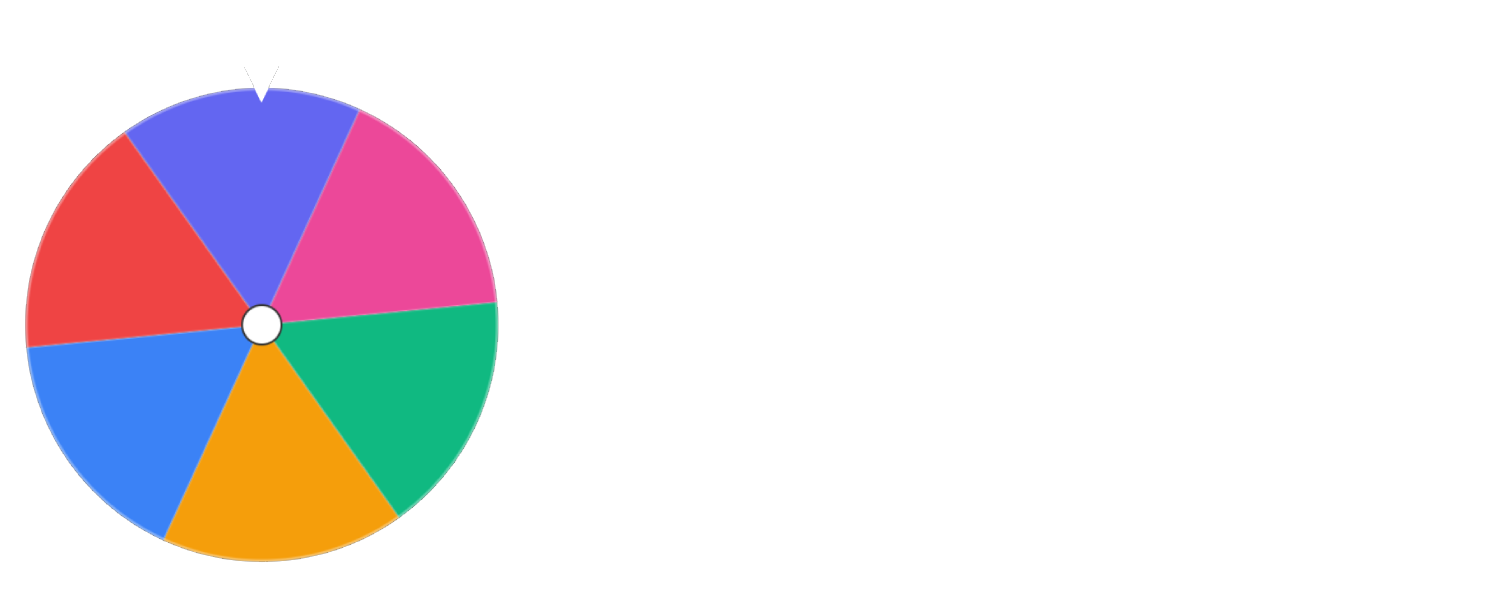
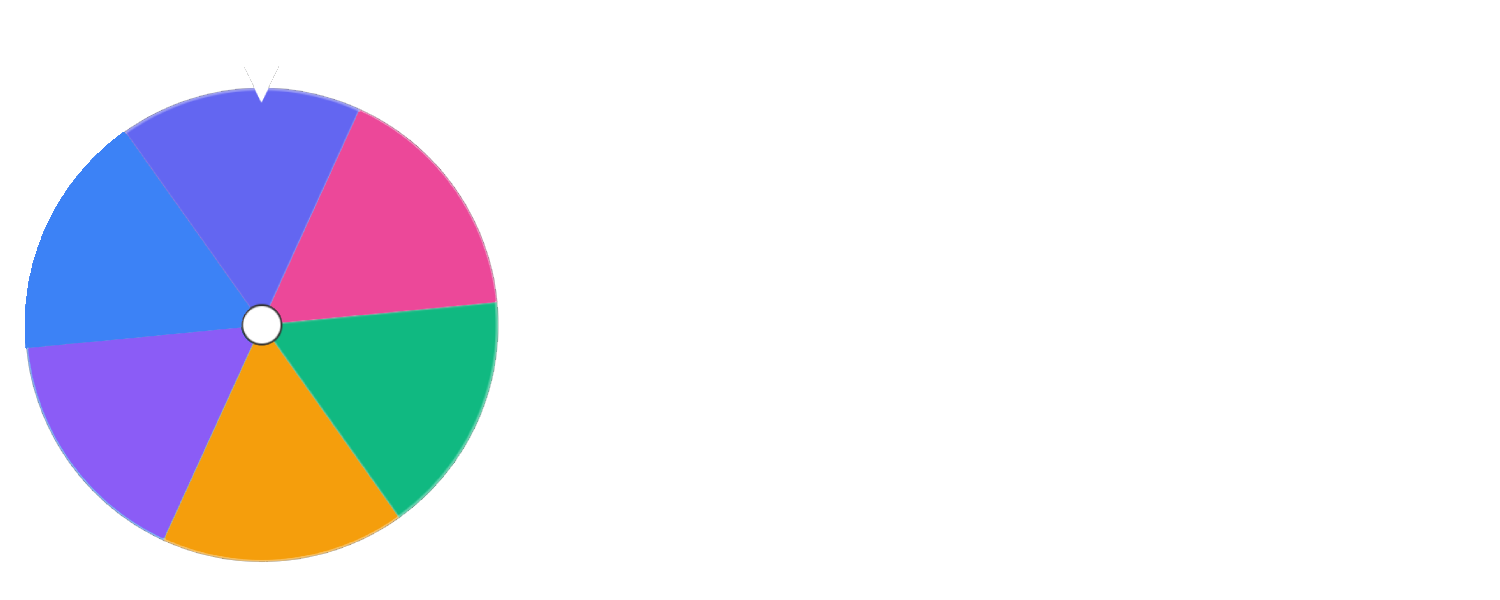
Added another tool

Changed region(s): [[0.0, 0.21, 0.184, 0.9]]

diff --git a/tools/index.html b/tools/index.html
@@ -55,6 +55,11 @@
             <img style="padding: 10px;" src="img/Spin Wheel.png">
         </div>
     </div>
+    <div style="display: flex; justify-content: center; gap: 15px; flex-wrap: wrap;">
+        <div class="project" onclick="window.open('https:\/\/flashcards.bobjoerules.com', '_blank'); return false;">
+            <img style="padding: 10px;" src="img/Flashcards.png">
+        </div>
+    </div>
     <div id="overlay" style="display:none; position:fixed; top:0; left:0; width:100vw; height:100vh; background-color:rgba(0,0,0,0.8); justify-content:center; align-items:center; z-index:9999;" onclick="closeOverlay()">
         <img id="overlayImg" style="max-width:90vw; max-height:90vh;">
     </div>
